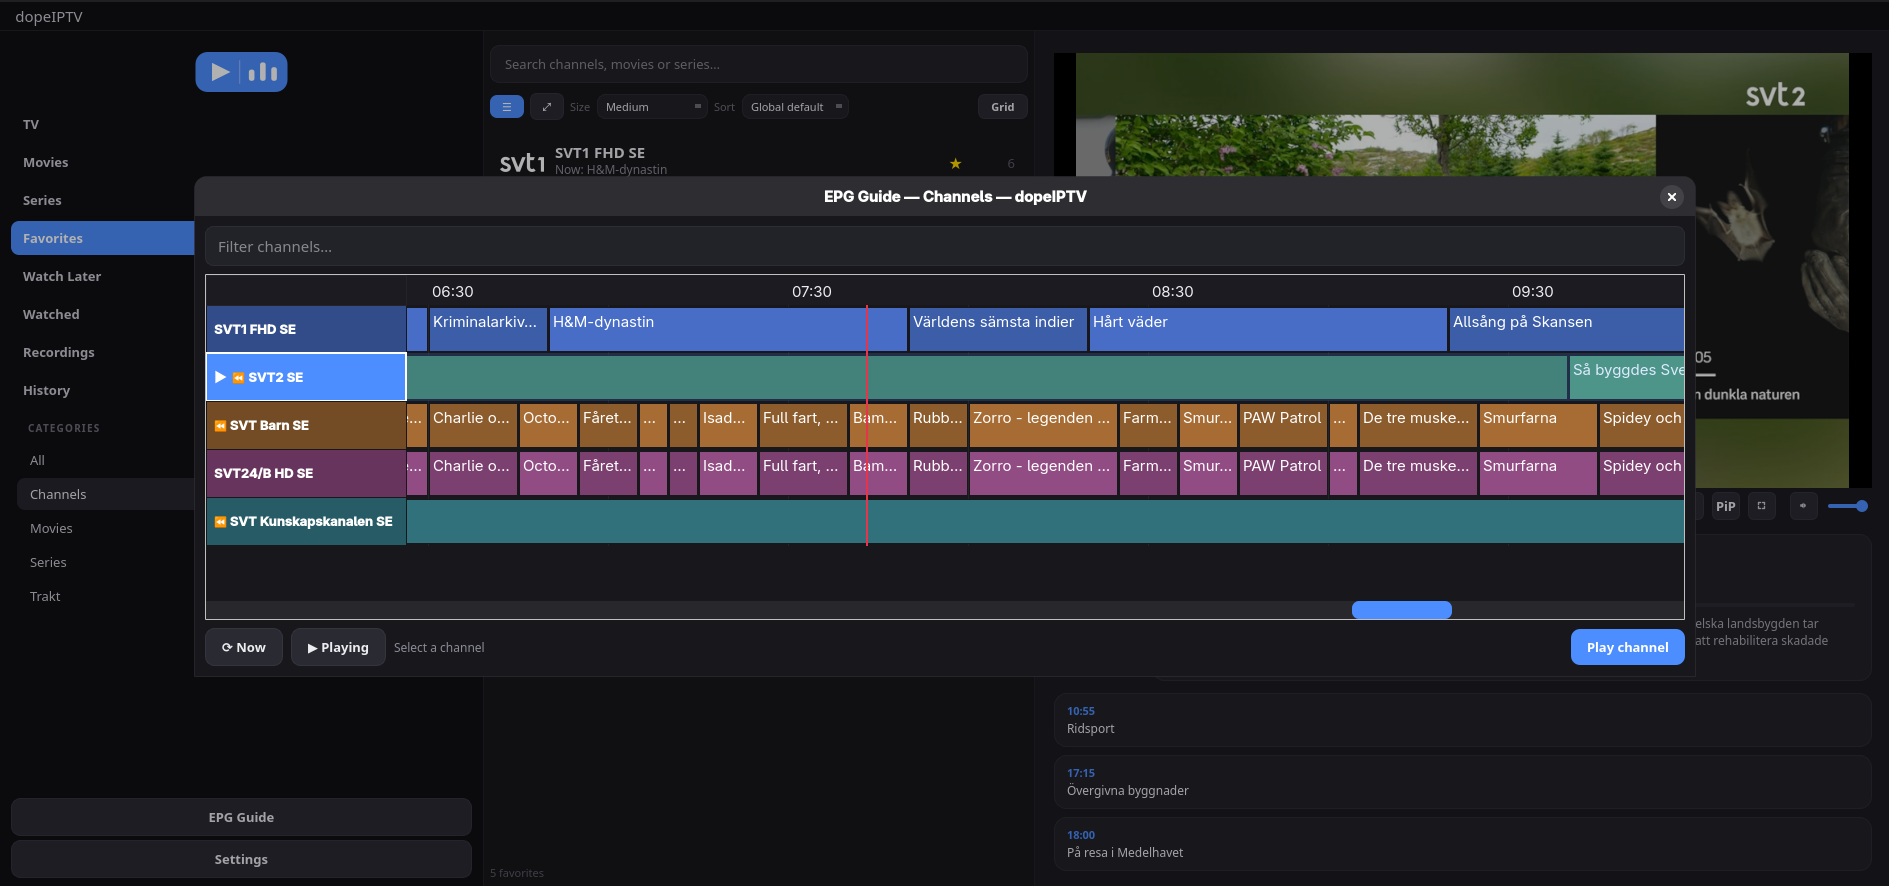
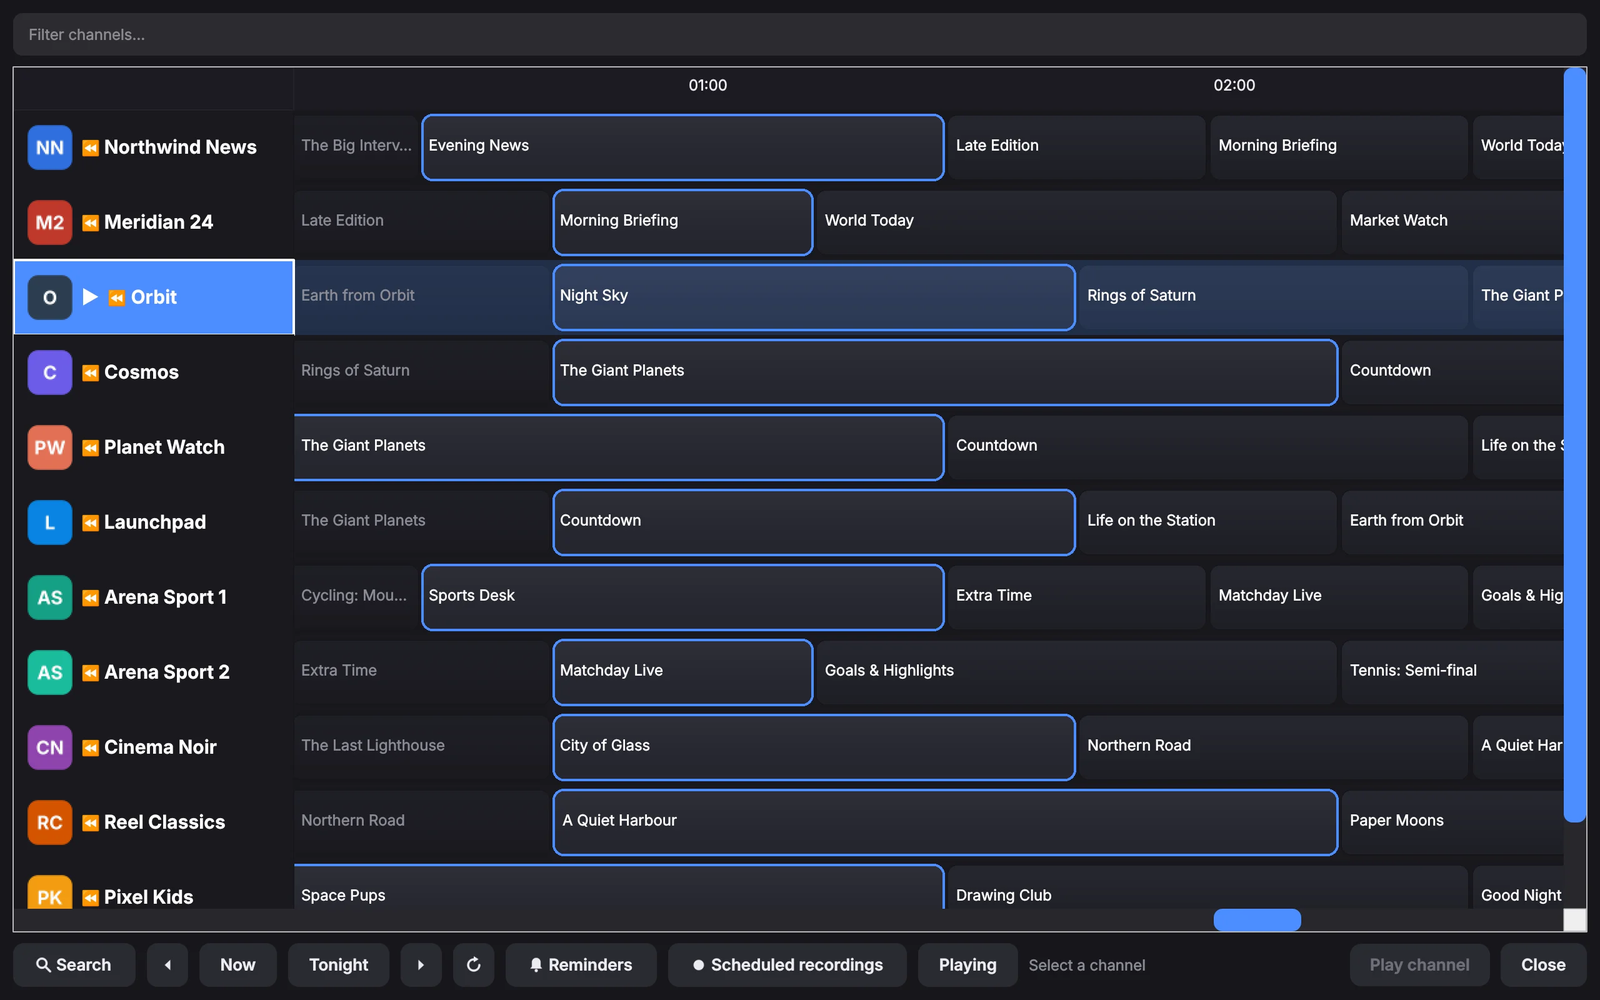
README and store pictures: the app as it looks now
The README's four pictures, and the software centres' through the
metainfo, are the website's English front-page shots: the main window
with the guide, the guide's grid, multiview with four channels and a
rewound live channel. Multiview is new; the themes picture stays as
the last of the metainfo's five. The file names do not change, since
the metainfo of every release already out points at them on main.

Claude-Session: https://claude.ai/code/session_01Pa1PFo7EpSA5A3brHTPmEs

diff --git a/docs/screenshots/README.md b/docs/screenshots/README.md
@@ -6,10 +6,18 @@ point at them:
 
 | File | What to capture |
 |---|---|
-| `live.png` | **The hero shot.** Live TV: the sidebar, the channel list, and a channel playing in the embedded player with the now/next EPG visible. Colour a category or two (right-click → Set background) so the left column looks alive. |
-| `epg-grid.png` | The **EPG timeline grid** (sidebar → *EPG Guide*, or `Ctrl+G`). Best if the playing channel's row is flagged (▶ accent) and a few ⏪ catch-up channels show. |
-| `themes.png` | **Settings → Appearance**: the theme and accent pickers (works with any content — even the demo channels). |
-| `player.png` | Favourites or a grid view with the mini player going — or show off **focus mode** (`⤢` / `Ctrl+Shift+M`) for a clean player-forward layout. |
+| `live.png` | **The hero shot.** Live TV: the sidebar, the channel list, and a channel playing with the now/next guide. |
+| `epg-grid.png` | The **programme guide's timeline grid**. |
+| `multiview.png` | **Multiview** with four live channels. |
+| `player.png` | **Timeshift**: a live channel rewound, the timeline over the video. |
+| `themes.png` | **Settings → Appearance**: the theme and accent pickers. Taken by hand. |
+
+All but `themes.png` are the website's English front-page pictures, made by
+`tools/site_screenshots.py` (see `docs/MAINTAINING.md`): take them with
+`xvfb-run -a -s "-screen 0 2560x1600x24" python tools/site_screenshots.py OUT en`,
+then save `main`, `guide`, `multiview` and `timeshift` from WebP
+as 1600×1000 PNG under the names above. The file names stay as they are:
+the metainfo of every release already out points at them on `main`.
 
 ## Getting content for free (no personal provider needed)
 

diff --git a/README.md b/README.md
@@ -20,10 +20,10 @@ modern interface, supporting the **Xtream Codes API**, **M3U playlists** and
 
 |  |  |
 |---|---|
-| ![Live TV with the EPG](docs/screenshots/live.png) | ![EPG timeline grid](docs/screenshots/epg-grid.png) |
-| *Live TV with the programme guide* | *EPG timeline grid* |
-| ![Themes and accent colors](docs/screenshots/themes.png) | ![Favorites and the player](docs/screenshots/player.png) |
-| *Themes and accent colors* | *Favorites and the embedded player* |
+| ![Live TV with the programme guide](docs/screenshots/live.png) | ![The programme guide's timeline grid](docs/screenshots/epg-grid.png) |
+| *Live TV with the programme guide* | *The guide's timeline grid* |
+| ![Multiview with four live channels](docs/screenshots/multiview.png) | ![Rewinding a live channel](docs/screenshots/player.png) |
+| *Multiview: up to nine live channels at once* | *Timeshift: rewind a live channel* |
 
 ## Features
 
